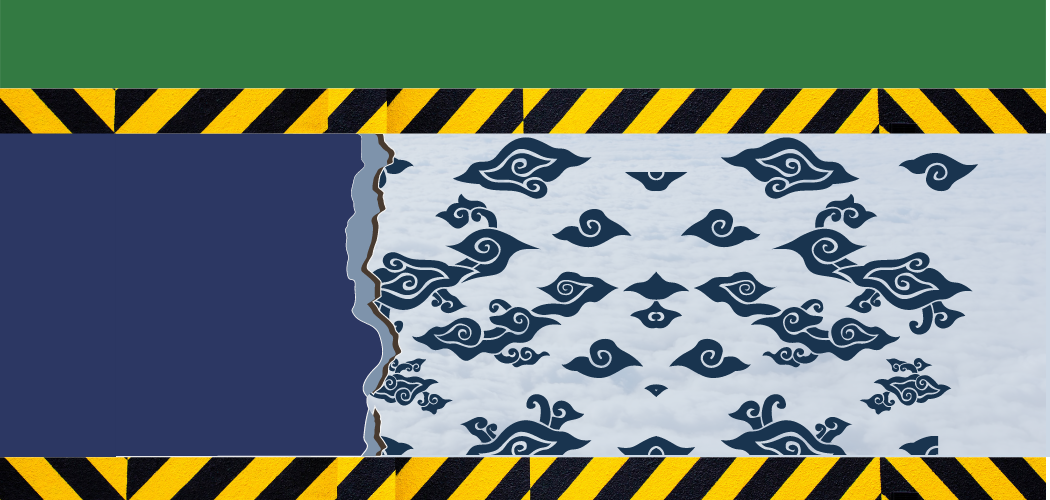
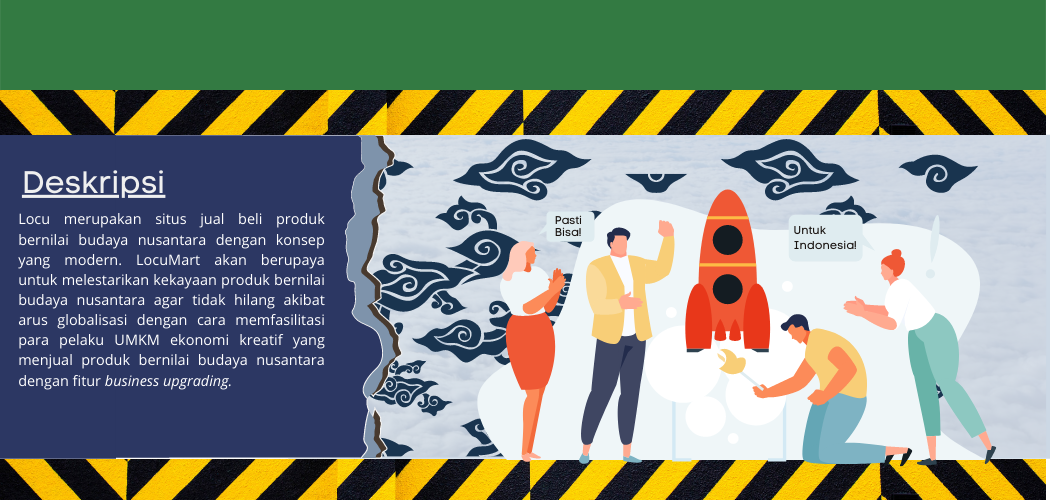
update mene

diff --git a/resources/views/marketplace/home.blade.php b/resources/views/marketplace/home.blade.php
@@ -208,10 +208,18 @@
                 </a>
               </li>
               <li class="header__navbar-item">
-                <a href="" class="header__navbar-item-link">
+                <a href="{{url('/tentang-locumart/deskripsi')}}" class="header__navbar-item-link">
                   <i class="header__navbar-icon far fa-question-circle"></i>
 
-                  FAQ
+                  Tentang Locumart
+                </a>
+              </li>
+
+              <li class="header__navbar-item">
+                <a href="{{url('/mitra-locumart/home')}}" class="header__navbar-item-link">
+                  <i class="header__navbar-icon fa fa-users"></i>
+
+                  Mitra Locumart
                 </a>
               </li>
               <!-- <li

diff --git a/resources/views/tentang-locumart/template.blade.php b/resources/views/tentang-locumart/template.blade.php
@@ -78,10 +78,8 @@
 
           <div class="col-lg-3 col-md-6 footer-contact">
             <h3 style = "color:white;">Locumart</h3>
-            <p>
-              A108 Adam Street <br>
-              New York, NY 535022<br>
-              United States <br><br>
+            <p style = "color:white;">
+           Bersatu Demi Indonesia 
 
             </p>
           </div>
@@ -96,7 +94,7 @@
 
         <div class="col-lg-3 col-md-6 footer-links">
             <center>
-            <h4>Our Social Networks</h4>
+            <h4 style = "color:#fff;">Sosial Media Kami</h4>
 
             <div class="social-links mt-3">
               <a href="#" class="twitter"><i class="bx bxl-twitter"></i></a>

diff --git a/resources/views/tentang-locumart/partnership.blade.php b/resources/views/tentang-locumart/partnership.blade.php
@@ -9,7 +9,7 @@ Partnership
 @section('content')
     
 
-<section id = "partnership" style = "background:url('/tentang-locumart/partner.png');  height:100vh;
+<section id = "partnership" style = "background:url('/bg-locumart/tentang-keempat.png');  height:100vh;
 background-size:cover; margin-top:-5%;">
 <div class="container">
     <div class="row">

diff --git a/resources/views/tentang-locumart/deskripsi.blade.php b/resources/views/tentang-locumart/deskripsi.blade.php
@@ -9,7 +9,7 @@ Deskripsi Locumart
 @section('content')
     
 
-<section id = "deskripsi" style = "background:url('/tentang-locumart/deskripsi-locu.png');  height:100vh;
+<section id = "deskripsi" style = "background:url('/bg-locumart/tentang-pertama.png');  height:100vh;
 background-size:cover; margin-top:-5%;">
 
 </section>
